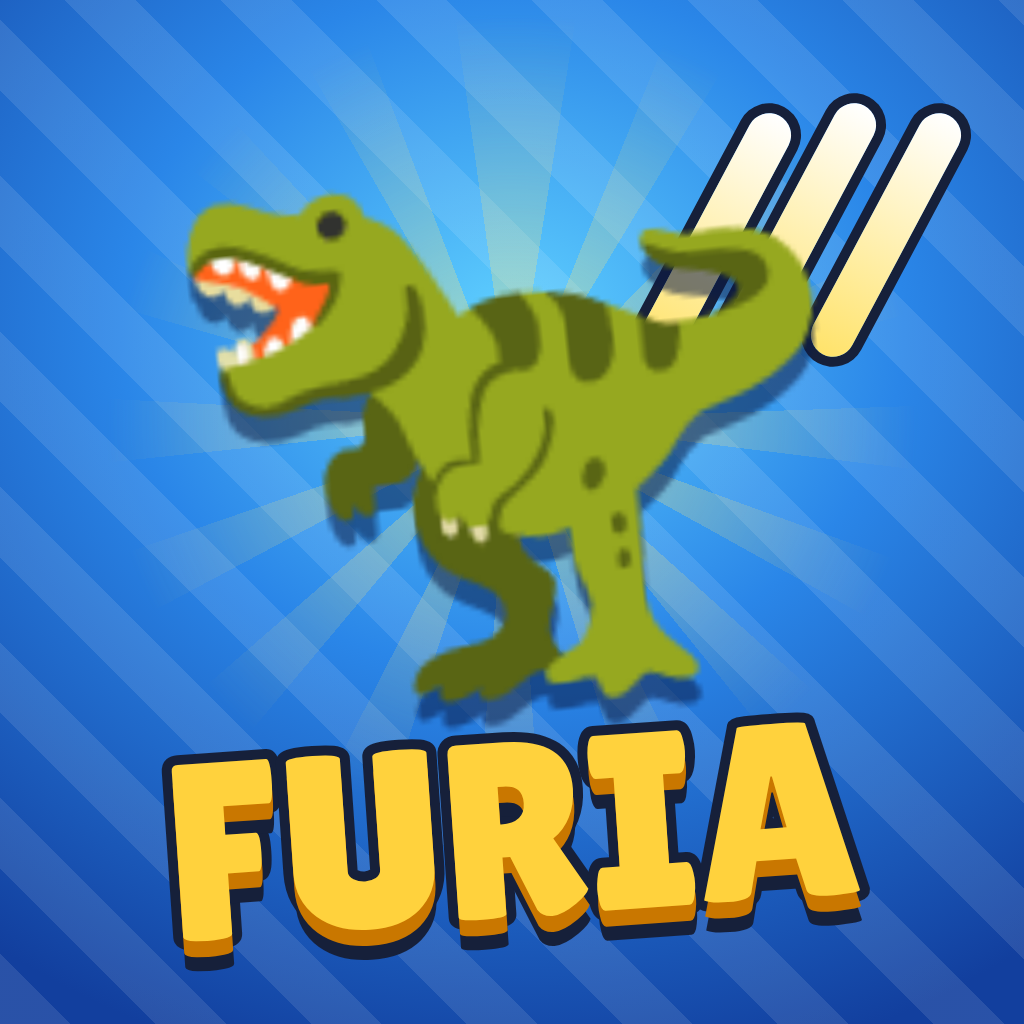
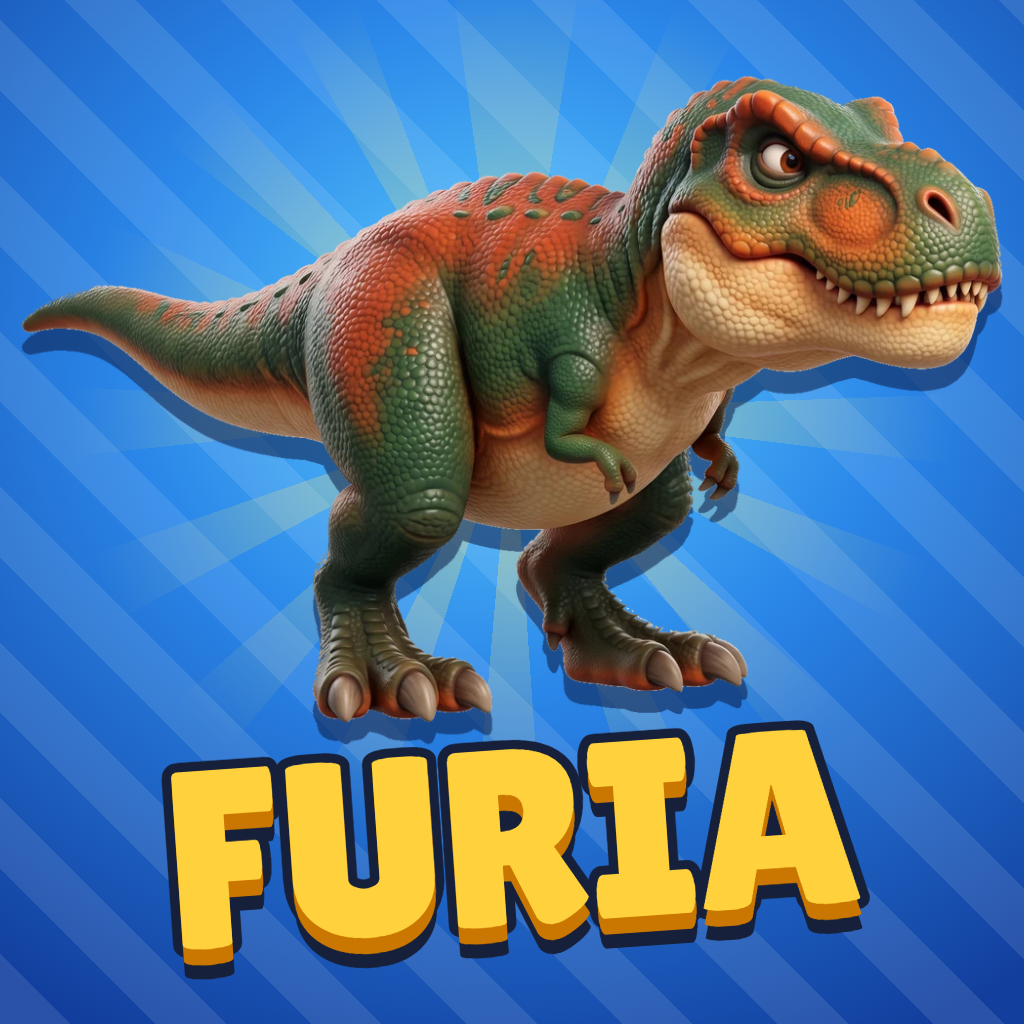
Ícono nuevo de la app con el T-rex en alta resolución

diff --git a/game.html b/game.html
@@ -7,8 +7,8 @@
 <meta name="apple-mobile-web-app-status-bar-style" content="black-translucent">
 <meta name="theme-color" content="#1556c4">
 <title>Furia Animal</title>
-<link rel="apple-touch-icon" href="apple-touch-icon.png?v=1">
-<link rel="icon" type="image/png" sizes="32x32" href="favicon-32.png?v=1">
+<link rel="apple-touch-icon" href="apple-touch-icon.png?v=2">
+<link rel="icon" type="image/png" sizes="32x32" href="favicon-32.png?v=2">
 <link rel="manifest" href="manifest.json">
 <meta name="apple-mobile-web-app-title" content="Furia Animal">
 <link rel="preconnect" href="https://fonts.googleapis.com">
@@ -293,7 +293,7 @@ img.em.im{display:block;width:88%;height:88%;object-fit:contain;filter:drop-shad
 <script>if(!window.mqtt)document.write('<script src="https://unpkg.com/mqtt@5.10.1/dist/mqtt.min.js"><\/script>')</script>
 <script>
 /* ---------- DATA ---------- */
-const VERSION='v35';
+const VERSION='v36';
 const GROUPS={
   c:{n:'Dino carnívoro',g1:'#ff7a5c',g2:'#c62f2f'},
   h:{n:'Dino gigante',g1:'#8be36a',g2:'#2f9a3a'},

diff --git a/index.html b/index.html
@@ -8,8 +8,8 @@
 <meta name="apple-mobile-web-app-status-bar-style" content="black-translucent">
 <meta name="theme-color" content="#1556c4">
 <title>Furia Animal</title>
-<link rel="apple-touch-icon" href="apple-touch-icon.png?v=1">
-<link rel="icon" type="image/png" sizes="32x32" href="favicon-32.png?v=1">
+<link rel="apple-touch-icon" href="apple-touch-icon.png?v=2">
+<link rel="icon" type="image/png" sizes="32x32" href="favicon-32.png?v=2">
 <link rel="manifest" href="manifest.json">
 <meta name="apple-mobile-web-app-title" content="Furia Animal">
 <style>html,body{margin:0;height:100%;background:#1556c4;color:#fff;font:800 18px system-ui,sans-serif;display:flex;align-items:center;justify-content:center;text-align:center}</style>

diff --git a/stats.html b/stats.html
@@ -5,7 +5,7 @@
 <meta name="viewport" content="width=device-width,initial-scale=1,viewport-fit=cover">
 <meta name="robots" content="noindex">
 <title>Furia Animal · Tablero</title>
-<link rel="icon" type="image/png" href="favicon-32.png">
+<link rel="icon" type="image/png" href="favicon-32.png?v=2">
 <link rel="stylesheet" href="https://fonts.googleapis.com/css2?family=Lilita+One&family=Nunito:wght@700;800;900&display=swap">
 <style>
 :root{--bg1:#1556c4;--bg2:#0b2a63;--ink:#0d1a33;--card:rgba(8,30,80,.6);--line:rgba(255,255,255,.14);--fg:#fff;--mute:#b9cdf5;

diff --git a/app/procesar_imagenes.js b/app/procesar_imagenes.js
@@ -6,7 +6,7 @@
 const sharp = require('sharp');
 const path = require('path');
 
-const SIZE = 384, WORK = 1024, FLIP = false; // las de Gemini ya miran a la derecha, que es como las usa el juego
+const SIZE = +(process.env.SIZE || 384), WORK = Math.max(1024, SIZE * 2), FLIP = false; // las de Gemini ya miran a la derecha, que es como las usa el juego
 const [outDir, ...pairs] = process.argv.slice(2);
 if (!outDir || pairs.length % 2) { console.error('uso: node procesar_imagenes.js <salida> <img> <slug> ...'); process.exit(1); }
 
